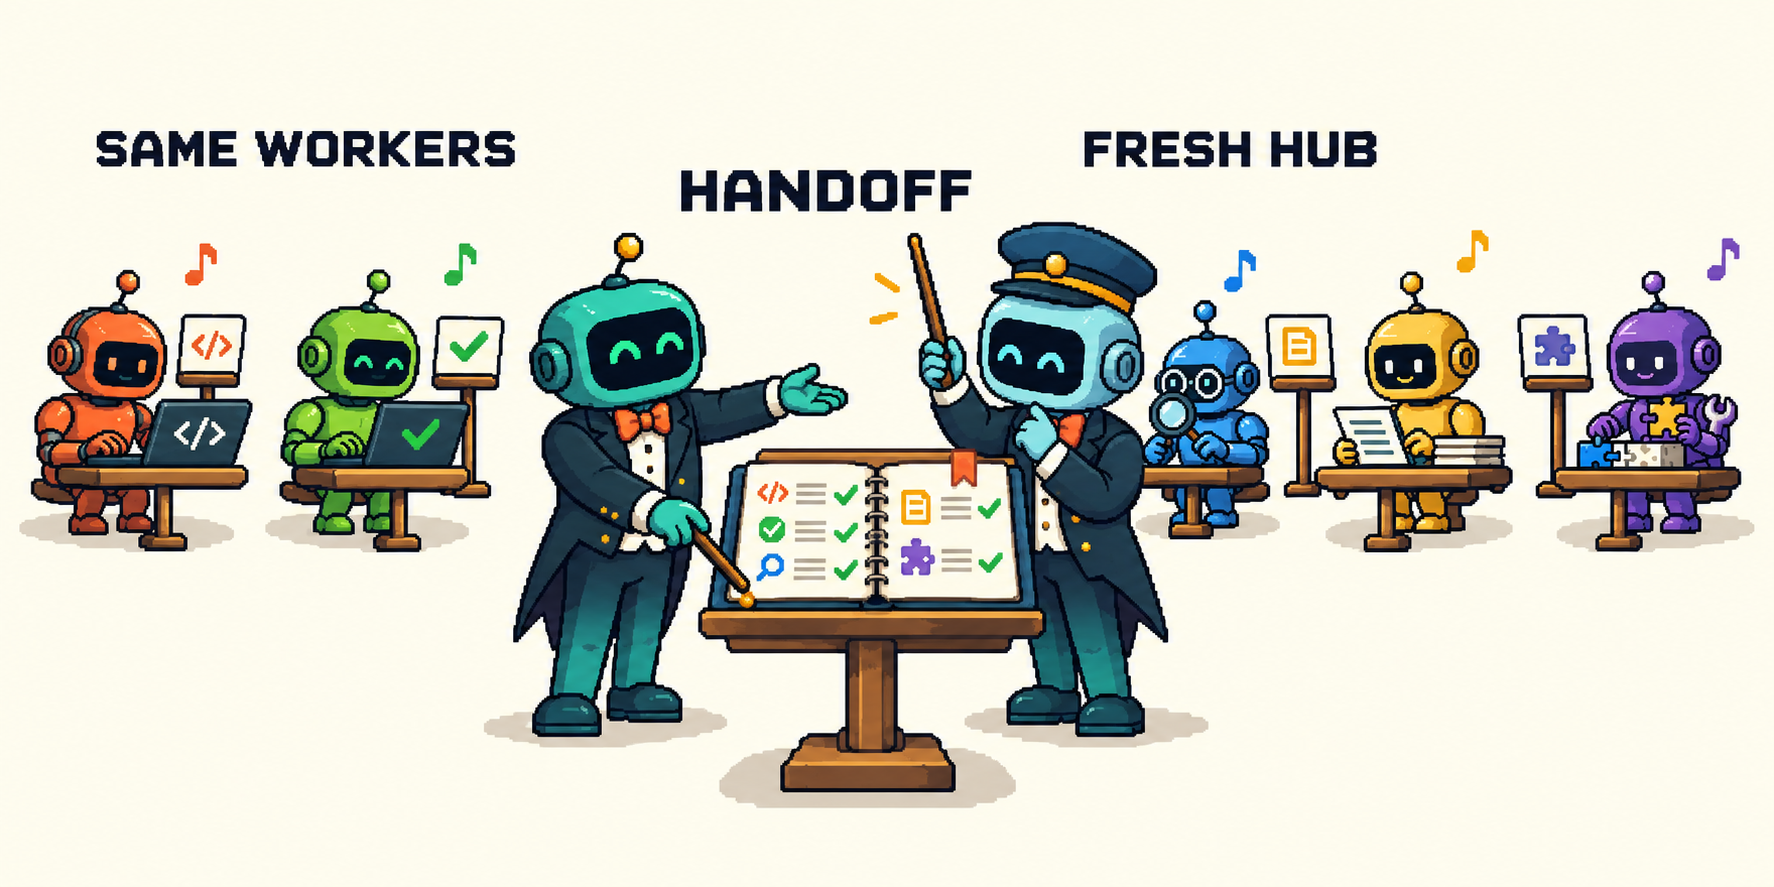
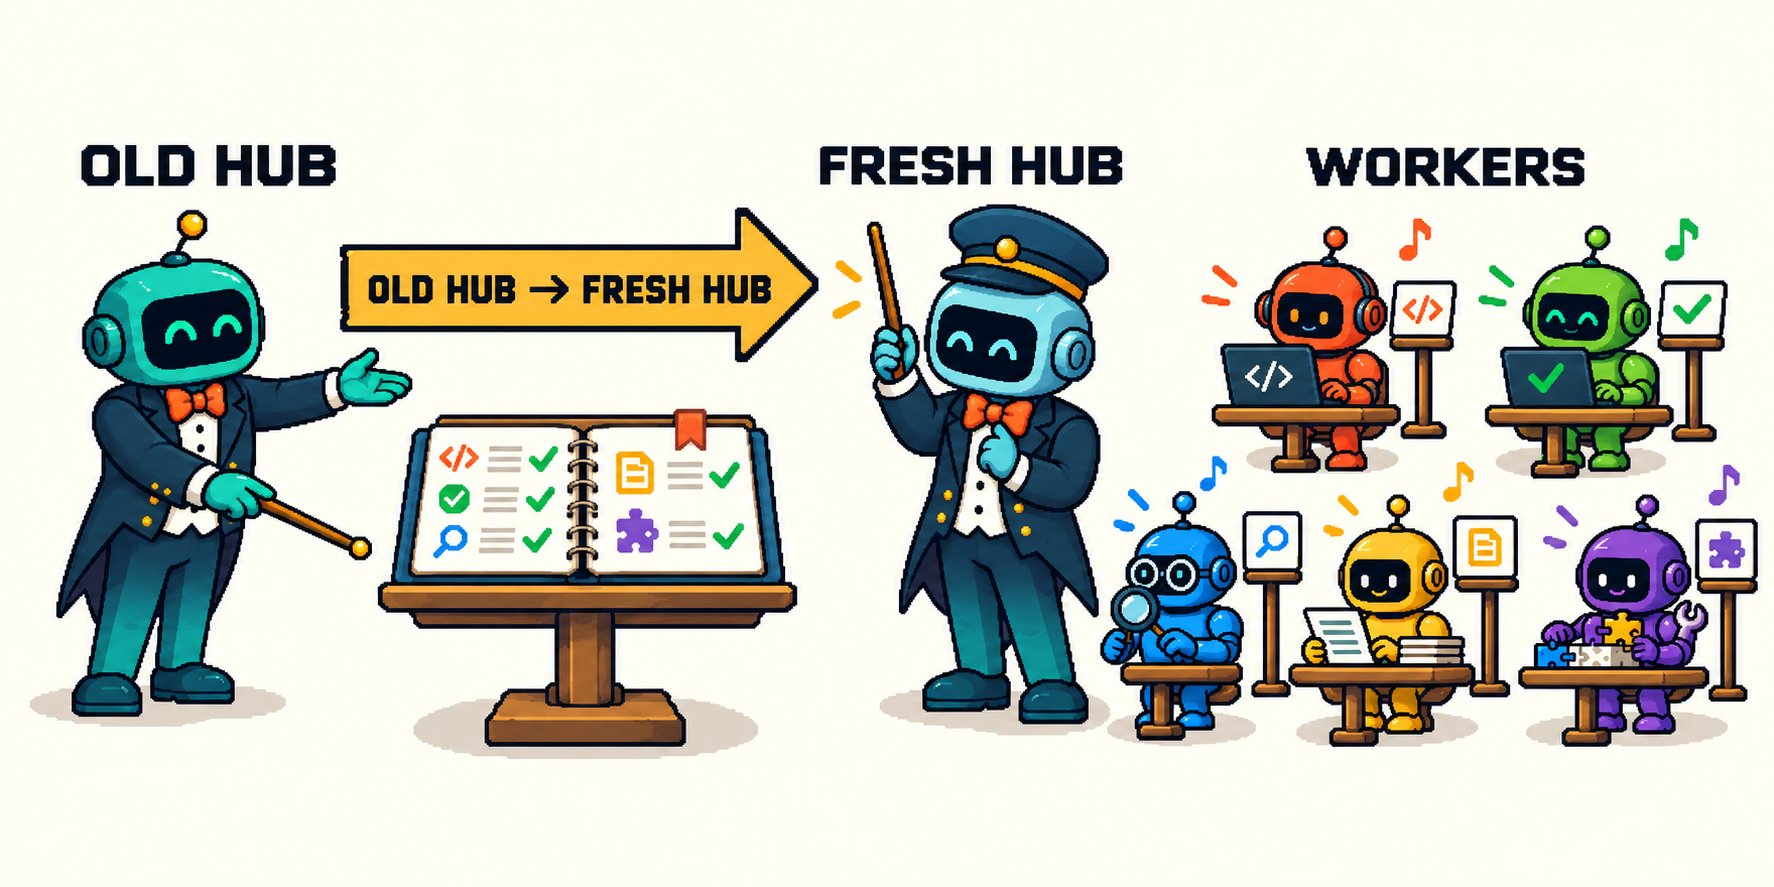
docs: уточнить передачу хаба и подчинение продолжающих работать агентов

diff --git a/docs/assets/pixel-art-prompts.md b/docs/assets/pixel-art-prompts.md
@@ -15,9 +15,10 @@ Composition: landscape around 2:1. One readable focal scene with generous breath
 Text: only two short labels, rendered exactly in a large clear dark pixel font: "HUB" above the conductor, "WORKERS" above the worker ensemble. No other letters or words; task details use simple recognizable icons.
 Constraints: original character designs; no brand logos, watermark, fake UI screenshots, dense scenery, decorative confetti, glowing neon, smooth vector edges, gradients or blur. Show one coordinator and workers performing distinct tasks, not six identical bots standing idle. The image must explain coordination even if its two labels are ignored. Solid opaque background.
 
-## Hub handoff
+## Hub handoff — initial generation (superseded)
 
-Output: docs/assets/hub-handoff-pixel.png
+Historical output: [hub-handoff-pixel.png at a5a83c3](https://github.com/ilya-kozyrev/claude-agent-hub/blob/a5a83c30a974eea744891aaf63a5108f333cbee8/docs/assets/hub-handoff-pixel.png).
+This initial image is the edit target for the current revision below.
 
 Reference: the generated agent-orchestra.png above, for cast and style consistency.
 
@@ -28,4 +29,25 @@ Primary request: one clear original scene that explains "the conductor changes; 
 Composition: wide landscape about 2:1, one spacious scene with the two hub robots and shared notebook clearly readable at the foreground, workers as a simple continuing ensemble in the background. Give characters comfortable separation. Make the handoff interaction visually obvious without complex arrows. Same small charming game-world scale and restrained palette as the reference.
 Text: exactly three large clear pixel-font labels, no other words: "HANDOFF" above the shared notebook and baton exchange, "FRESH HUB" above the incoming conductor, "SAME WORKERS" above the continuing worker ensemble. Task details use simple icons.
 Constraints: preserve the reference cast style and palette; sharp visible pixel grid, no blur, no smooth gradients, no logos or watermark, no extra decorative scenery or fake software windows. Outgoing and incoming hub are different sessions; the same workers and shared notebook persist. Keep the scene calm and understandable.
+
+# Hub handoff illustration — owner-requested revision
+
+Built-in image generator, edit mode, 2026-10-05.
+
+Current output: docs/assets/hub-handoff-pixel.png
+
+Edit target: the initial hub-handoff-pixel.png preserved in Git commit a5a83c3. The generated source original also remains in the image generator output directory.
+
+Use case: precise-object-edit / illustration-story.
+Input image is the edit target: the pixel-art handoff illustration. Revise its composition and labels to make the user's requested relationship explicit.
+Preserve: the same crisp pixel-art robot character designs, dark conductor tailcoats, outgoing teal conductor, incoming lighter teal conductor with navy cap, the five original orange/green/blue/yellow/purple worker characters and recognizable code/check/magnifier/document/puzzle tasks; warm off-white opaque background and limited palette.
+Change the scene to one very clear LEFT-TO-RIGHT transfer:
+1. The outgoing conductor is on the far left, labelled exactly "OLD HUB".
+2. A large clear pixel arrow points from the old conductor toward the incoming conductor, visibly reading OLD HUB -> FRESH HUB. It must be an unmistakable rightward arrow, not decorative dotted lines.
+3. The incoming conductor is centre-right, labelled exactly "FRESH HUB", actively conducting the worker group with his baton.
+4. ALL FIVE worker robots are grouped ONLY to the right of, or immediately below, the fresh conductor, under exactly one label "WORKERS". Every worker faces the fresh conductor or has a short task/result connection pointing to him. No workers remain beside the old hub; no worker can be visually mistaken for still reporting to the old hub. They are the same continuing workers, not freshly created replacement robots.
+5. The open shared notebook stays between the two conductors on a shared stand, and the old conductor gestures toward its recorded task pages as the fresh conductor takes over. Notebook has clear task icons and checkmarks. This is a coordination handoff, not erasing workers or moving to another machine.
+Composition: landscape approximately 2:1. Give the OLD HUB a smaller quiet outgoing position and the FRESH HUB + five workers a clearly dominant active ensemble. The arrow and the full worker cluster should make the meaning obvious at small README width. Rearrange characters and desks as necessary; keep complete silhouettes and comfortable spacing.
+Text: exactly "OLD HUB", "FRESH HUB", "WORKERS", large correct dark pixel letters above their respective characters/group. Remove the old labels "SAME WORKERS" and "HANDOFF"; add no other words.
+Style constraints: authentic crisp square pixels, stepped sprite silhouettes, readable task icons and faces, simple cream background, no added logos, blur, gradient lighting, extra characters, extra scenery or watermark.
 

diff --git a/CHANGELOG.md b/CHANGELOG.md
@@ -3,8 +3,8 @@
 ## Unreleased
 
 - **Pixel-art illustrations explain worker coordination and hub handoff.** The README shows distinct worker tasks
-  feeding a shared journal; the walkthrough shows a fresh hub reading shared records while the same workers continue.
-  Original built-in generation prompts and their reference are recorded beside the PNGs; the precise SVG remains in the reference.
+  feeding a shared journal; the handoff scene shows OLD HUB → FRESH HUB, with all continuing workers under the fresh hub.
+  Original generation and owner-directed edit prompts, including the historical reference, are recorded beside the PNGs; the precise SVG remains in the reference.
 
 - **A shorter starting page for humans and a task router for agents.** README now gives fit criteria and a small
   installation/start recipe. The agent guide routes installation assessment, operation and contribution separately;

diff --git a/docs/getting-started.md b/docs/getting-started.md
@@ -265,7 +265,7 @@ Merge 41, then 42. Take the main-merge lock first so nobody else merges meanwhil
 
 ### 11. Hand over when the context fills up
 
-![A fresh hub reads shared records to take over coordination while the same workers continue their tasks.](assets/hub-handoff-pixel.png)
+![An old hub hands coordination to a fresh hub through shared records; the same five workers continue their tasks under the fresh hub.](assets/hub-handoff-pixel.png)
 
 A long stage outlives one chat. When the hub's context is long, or at the end of the day, it loads the `handoff` skill:
 
